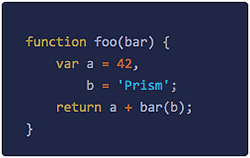
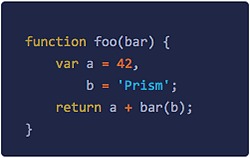
some more distinct values for yellow, green and orange

diff --git a/themes/prism-base16-ateliersulpherpool.dark.css b/themes/prism-base16-ateliersulpherpool.dark.css
@@ -71,11 +71,11 @@ pre[class*="language-"] {
 .token.operator,
 .token.boolean,
 .token.number {
-  color: #b26624;
+  color: #c76b29;
 }
 
 .token.property {
-  color: #a38d29;
+  color: #c08b30;
 }
 
 .token.tag {
@@ -91,7 +91,7 @@ pre[class*="language-"] {
 }
 
 .token.attr-name {
-  color: #b26624;
+  color: #c76b29;
 }
 
 .token.entity,
@@ -106,7 +106,7 @@ pre[class*="language-"] {
 .token.control,
 .token.directive,
 .token.unit {
-  color: #a89648;
+  color: #ac9739;
 }
 
 .token.statement,
